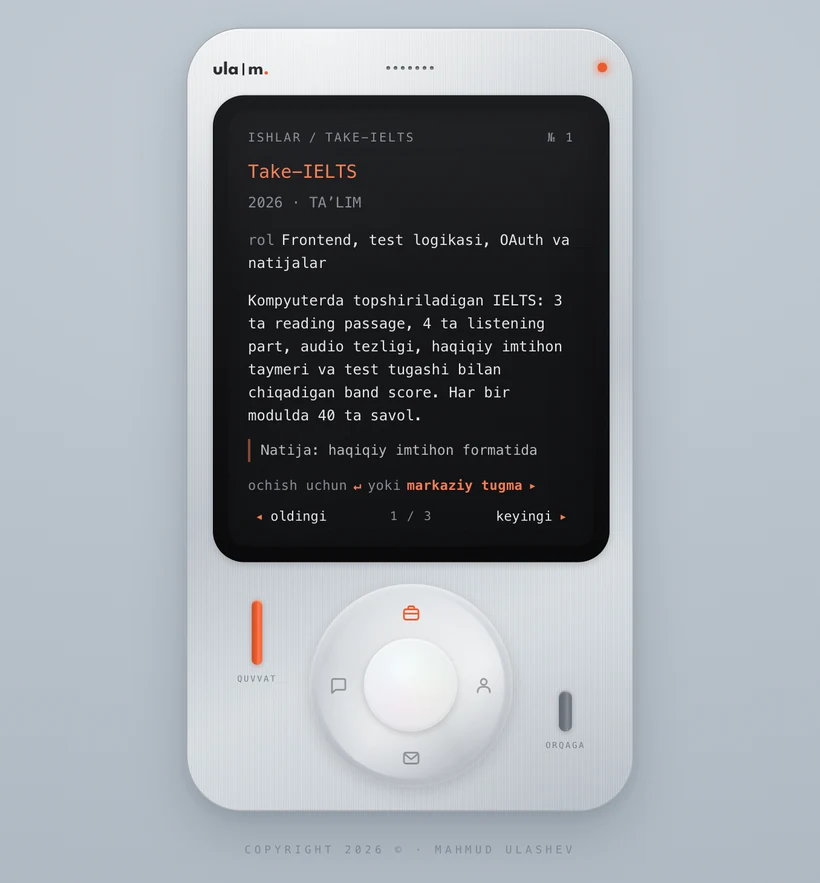
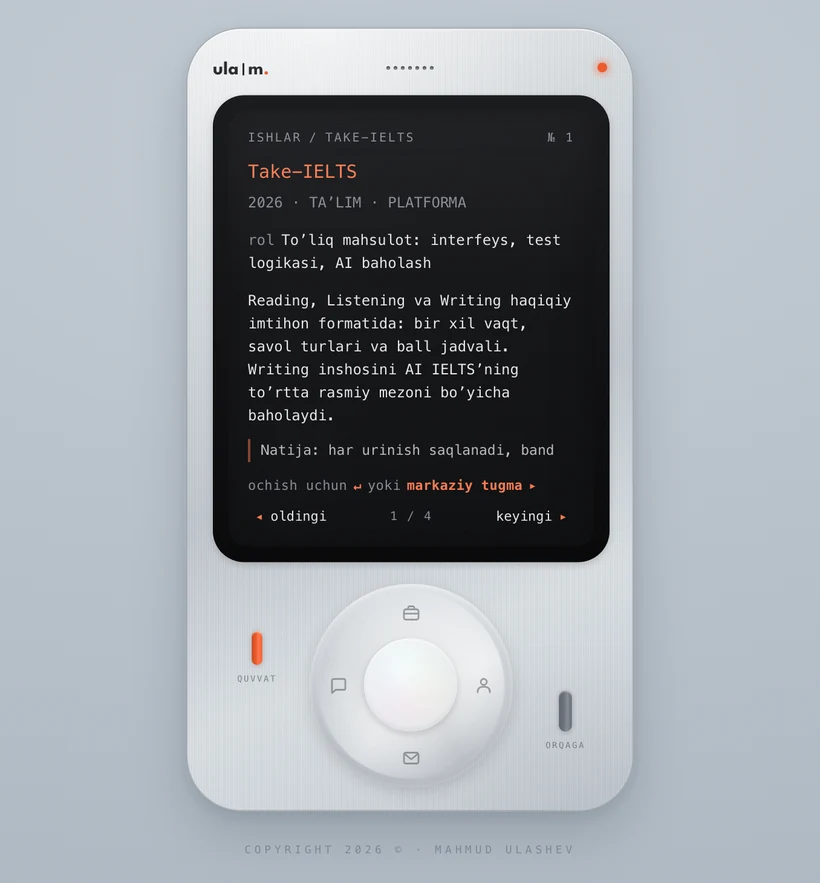
content: replace dead projects with the live GitHub/Vercel work
Saytdagi uchta loyihadan ikkitasi o'lik edi — quizo.uz va uz-film.vercel.app
ikkalasi ham Vercel'da DEPLOYMENT_NOT_FOUND qaytaryapti. Ular olib tashlandi,
o'rniga GitHub va Vercel'da haqiqatan ishlab turgan ishlar qo'yildi.

Ishlar (3 -> 4), hammasi tekshirilgan, barchasi 200:
- Take-IELTS  react/vite/supabase + writing uchun AI baholash
- Atlas       swift dvigatel, macOS (SwiftUI) va Windows (Avalonia)
- XIV         next.js/tailwind moda do'koni, figma dizayn tizimidan
- Orpheus     figma manbasidan piksel aniqligida qayta qurish

Shu bilan birga:
- "RAQAMLARDA" ikkita raqami o'lik loyihalarga tegishli edi, almashtirildi
- o'zgarishlar ro'yxati yangi ishlarga moslandi
- JSON-LD ItemList va knowsAbout yangilandi (Swift, SwiftUI, Tailwind)
- skrin-riderlar uchun yashirin blok yangi loyihalar bilan qayta yozildi
- docs/ skrinshotlari qayta olindi

diff --git a/app.js b/app.js
@@ -19,26 +19,33 @@ const DATA = {
   work: {
     label: 'ishlar',
     items: [
-      { t: 'Take-IELTS', y: '2026', f: '◉', cat: 'TAʼLIM',
-        role: 'Frontend, test logikasi, OAuth va natijalar',
-        body: 'Kompyuterda topshiriladigan IELTS: 3 ta reading passage, 4 ta listening part, audio tezligi, haqiqiy imtihon taymeri va test tugashi bilan chiqadigan band score. Har bir modulda 40 ta savol.',
-        note: 'Natija: haqiqiy imtihon formatida ishlaydigan platforma.',
-        tags: '#React #TypeScript #Supabase',
+      { t: 'Take-IELTS', y: '2026', f: '◉', cat: 'TAʼLIM · PLATFORMA',
+        role: 'Toʼliq mahsulot: interfeys, test logikasi, AI baholash',
+        body: 'Reading, Listening va Writing haqiqiy imtihon formatida: bir xil vaqt, savol turlari va ball jadvali. Writing inshosini AI IELTSʼning toʼrtta rasmiy mezoni boʼyicha baholaydi.',
+        note: 'Natija: har urinish saqlanadi, band score dinamikasi grafikda.',
+        tags: '#React #Vite #Supabase #AI',
         link: 'https://take-ielts.vercel.app' },
 
-      { t: 'Quizo.uz', y: '2026', f: '◉', cat: 'SAAS · IMTIHON PLATFORMASI',
-        role: 'Admin panel, test builder, API va natija oqimi',
-        body: 'Trening, sertifikat va baholash bitta panelda. Tashkilot savol turlari, vaqt chegarasi, qoidalar va maxsus havolani oʻzi belgilaydi. Natijalar real vaqtda tushadi — Excel qidirishga hojat qolmaydi. 10 dan ortiq savol turi.',
-        note: 'Natija: tashkilot imtihonni oʻzi yigʻadi va nazorat qiladi.',
-        tags: '#React #TypeScript #REST_API',
-        link: 'https://quizo.uz' },
+      { t: 'Atlas', y: '2026', f: '◉', cat: 'DASTURCHI ASBOBI · DESKTOP',
+        role: 'Swift dvigatel, macOS va Windows klientlari',
+        body: 'Muharrir fayllarni koʼrsatadi, kod esa graf boʼlib ishlaydi — Atlas oʼsha grafni chizadi: bogʼliqliklar xaritasi, oʼqish marshruti va topilmalar. Bitta Swift dvigateli ikkala platformada.',
+        note: 'Natija: ikki platforma kodni bir xil oʼqiydi, farq chiqsa CI yiqiladi.',
+        tags: '#Swift #SwiftUI #Avalonia',
+        link: 'https://github.com/mahmudulashev/Atlas' },
 
-      { t: 'Uz-Film', y: '2026', f: '◉', cat: 'HAMJAMIYAT · KINO',
-        role: 'Katalog, profil, baholash, Supabase va TMDB integratsiyasi',
-        body: 'Oʻzbek kinosi uchun bitta joy. 500 dan ortiq film, baholar, sharhlar, roʻyxatlar va profillar. Yangi chiqqanlar, koʻp koʻrilganlar va yana koʻrishga arziydigan filmlar bir joyda.',
-        note: 'Natija: oʻzbek kinosi uchun ishlaydigan hamjamiyat katalogi.',
-        tags: '#Next.js #Supabase #TMDB_API',
-        link: 'https://uz-film.vercel.app' }
+      { t: 'XIV', y: '2026', f: '◉', cat: 'E-COMMERCE · DOʼKON',
+        role: 'Figma dizayn tizimidan toʼliq frontend',
+        body: 'Moda doʼkoni: filtrlar bilan katalog, galereya hamda rang va oʼlcham tanlovi bor mahsulot sahifasi, savat va jonli qidiruv. 393px gacha moslashadi.',
+        note: 'Natija: Figma dizayn tizimi ishlaydigan doʼkonga aylandi.',
+        tags: '#Next.js #React #TypeScript #Tailwind',
+        link: 'https://cloth-store-gules.vercel.app' },
+
+      { t: 'Orpheus', y: '2026', f: '◉', cat: 'FIGMAʼDAN KODGA',
+        role: 'Piksel aniqligida qayta qurish, ikki mavzu',
+        body: 'Dizayner portfoliosi Figma manbasidan bir-bir koʼchirildi. Shrift oʼlchami, harflar orasi va boʼlimlar ritmi koʼzga chamalab emas, dizaynning oʼzidan olingan. Ikki mavzu.',
+        note: 'Natija: qurilgan sahifa 1728px artboardʼdan bir necha piksel farq qiladi.',
+        tags: '#Next.js #TypeScript #Tailwind #Motion',
+        link: 'https://orpheus-dusky.vercel.app' }
     ]
   },
 
@@ -96,9 +103,9 @@ const PAGES = {
       <div class="d-para">Gʻoya sizdan — ishlaydigan mahsulot mendan.</div>
       <div class="d-sub">RAQAMLARDA</div>
       <div class="d-role"><b>4</b>yil tajriba · 2022-yildan beri</div>
-      <div class="d-role"><b>3</b>ishlab turgan mahsulot</div>
-      <div class="d-role"><b>500+</b>film uz-film bazasida</div>
-      <div class="d-role"><b>10+</b>savol turi quizo.uz’da</div>
+      <div class="d-role"><b>4</b>ochiq loyiha</div>
+      <div class="d-role"><b>3</b>IELTS boʻlimi take-ielts’da</div>
+      <div class="d-role"><b>2</b>platforma atlas’da</div>
       <div class="d-sub">HOZIR</div>
       <div class="d-role"><b>holat</b>Yangi loyiha uchun joy bor</div>
       <div class="d-role"><b>javob</b>1 kun ichida</div>
@@ -133,9 +140,9 @@ const PAGES = {
 };
 
 const CHANGELOG = [
-  { d: '2026', lines: ['· quizo.uz test builder yangilandi'] },
-  { d: '2026', lines: ['· take-ielts band score qoʻshildi'] },
-  { d: '2026', lines: ['· uz-film 500+ filmga yetdi'] }
+  { d: '2026', lines: ['· atlas macOS va Windows uchun chiqdi'] },
+  { d: '2026', lines: ['· take-ielts writing AI baholash'] },
+  { d: '2026', lines: ['· xiv va orpheus ishga tushdi'] }
 ];
 
 const LEGENDS = {

diff --git a/index.html b/index.html
@@ -51,7 +51,7 @@
         "https://github.com/mahmudulashev",
         "https://t.me/mahmud_ulashev"
       ],
-      "knowsAbout": ["React", "Next.js", "TypeScript", "Supabase", "Frontend", "Backend", "UI/UX"]
+      "knowsAbout": ["React", "Next.js", "TypeScript", "Swift", "SwiftUI", "Supabase", "Tailwind CSS", "Frontend", "Backend", "UI/UX"]
     },
     {
       "@type": "WebSite",
@@ -66,8 +66,9 @@
       "name": "Loyihalar",
       "itemListElement": [
         { "@type": "ListItem", "position": 1, "name": "Take-IELTS", "url": "https://take-ielts.vercel.app" },
-        { "@type": "ListItem", "position": 2, "name": "Quizo.uz", "url": "https://quizo.uz" },
-        { "@type": "ListItem", "position": 3, "name": "Uz-Film", "url": "https://uz-film.vercel.app" }
+        { "@type": "ListItem", "position": 2, "name": "Atlas", "url": "https://github.com/mahmudulashev/Atlas" },
+        { "@type": "ListItem", "position": 3, "name": "XIV", "url": "https://cloth-store-gules.vercel.app" },
+        { "@type": "ListItem", "position": 4, "name": "Orpheus", "url": "https://orpheus-dusky.vercel.app" }
       ]
     }
   ]
@@ -90,29 +91,36 @@
 
   <h2>Ishlar</h2>
 
-  <h3>Take-IELTS — IELTS imtihon platformasi</h3>
-  <p>Kompyuterda topshiriladigan IELTS imtihoni haqiqiy formatda: uchta reading passage,
-     to'rtta listening part, audio tezligini boshqarish, imtihon taymeri va test tugashi
-     bilan chiqadigan band score. Har bir modulda 40 ta savol. Frontend, test logikasi,
-     OAuth orqali kirish va natijalar tizimini men qildim.
-     Texnologiyalar: React, TypeScript, Supabase.
+  <h3>Take-IELTS — IELTS mashq platformasi</h3>
+  <p>Reading, Listening va Writing haqiqiy imtihon formatida: bir xil vaqt chegarasi,
+     savol turlari va ball jadvali. Writing inshosi Supabase Edge Function orqali AI'ga
+     boradi va IELTS'ning to'rtta rasmiy mezoni bo'yicha baholanadi. Har urinish
+     saqlanadi, band score dinamikasi grafikda ko'rinadi.
+     Texnologiyalar: React, Vite, Tailwind CSS, Supabase.
      <a href="https://take-ielts.vercel.app">take-ielts.vercel.app</a></p>
 
-  <h3>Quizo.uz — tashkilotlar uchun imtihon va sertifikat tizimi</h3>
-  <p>Trening, sertifikat va baholash bitta panelda. Tashkilot savol turlarini, vaqt
-     chegarasini, qoidalarni va maxsus havolani o'zi belgilaydi. Natijalar real vaqtda
-     tushadi, Excel bilan qo'lda ishlashga hojat qolmaydi. O'ndan ortiq savol turi mavjud.
-     Admin panel, test builder, API va natijalar oqimini men qildim.
-     Texnologiyalar: React, TypeScript, REST API.
-     <a href="https://quizo.uz">quizo.uz</a></p>
+  <h3>Atlas — notanish kodni o'qish uchun desktop dastur</h3>
+  <p>Loyihani tahlil qilib, yangi kelgan dasturchining uchta savoliga javob beradi:
+     bu nima, qanday bog'langan va qayerdan boshlash kerak. Bog'liqliklar xaritasi,
+     o'qish marshruti va topilmalar. Bitta Swift dvigateli macOS'da SwiftUI, Windows'da
+     Avalonia interfeysi bilan ishlaydi; ikkalasi kodni bir xil o'qiydi.
+     Texnologiyalar: Swift, SwiftUI, Avalonia.
+     <a href="https://github.com/mahmudulashev/Atlas">github.com/mahmudulashev/Atlas</a></p>
 
-  <h3>Uz-Film — o'zbek kinosi katalogi</h3>
-  <p>O'zbek kinosi uchun bitta joy: besh yuzdan ortiq film, baholar, sharhlar, ro'yxatlar
-     va foydalanuvchi profillari. Yangi chiqqan, ko'p ko'rilgan va qayta ko'rishga arziydigan
-     filmlar bir joyda. Katalog, profil, baholash tizimi hamda Supabase va TMDB
-     integratsiyasini men qildim.
-     Texnologiyalar: Next.js, Supabase, TMDB API.
-     <a href="https://uz-film.vercel.app">uz-film.vercel.app</a></p>
+  <h3>XIV — moda do'koni uchun onlayn savdo interfeysi</h3>
+  <p>Figma dizayn tizimidan qurilgan do'kon: filtrlar bilan katalog, galereya hamda rang
+     va o'lcham tanlovi bo'lgan mahsulot sahifasi, savat va yozayotganda natija
+     chiqaradigan qidiruv. 393px gacha moslashadi.
+     Texnologiyalar: Next.js, React, TypeScript, Tailwind CSS.
+     <a href="https://cloth-store-gules.vercel.app">cloth-store-gules.vercel.app</a></p>
+
+  <h3>Orpheus — Figma dizaynining piksel aniqligidagi nusxasi</h3>
+  <p>Dizayner portfoliosi Figma manbasidan bir-bir ko'chirildi. Shrift o'lchami, harflar
+     orasi, bo'limlar ritmi va fon nurlari ko'zga chamalab emas, dizaynning o'zidan
+     olingan. Qorong'i va yorug' mavzu; qurilgan sahifa 1728px artboard'dan bir necha
+     piksel farq qiladi.
+     Texnologiyalar: Next.js, React, TypeScript, Tailwind CSS, Motion.
+     <a href="https://orpheus-dusky.vercel.app">orpheus-dusky.vercel.app</a></p>
 
   <h2>Xizmatlar</h2>
   <ul>
